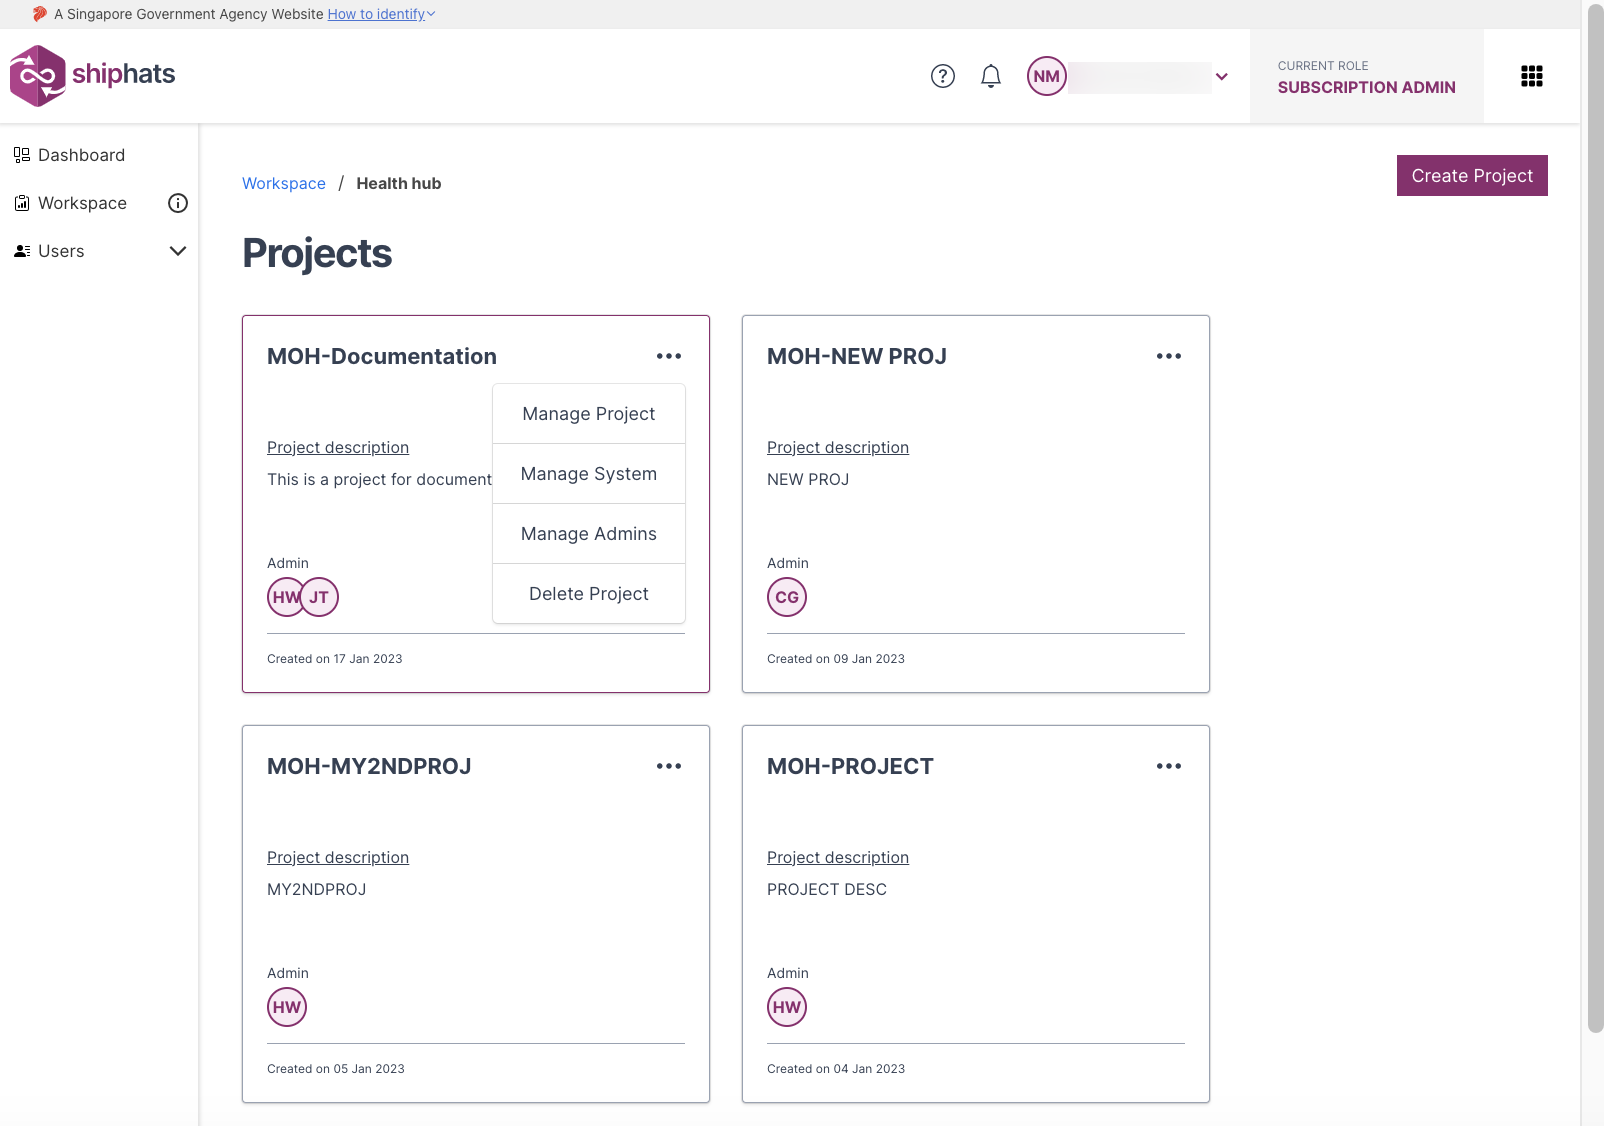
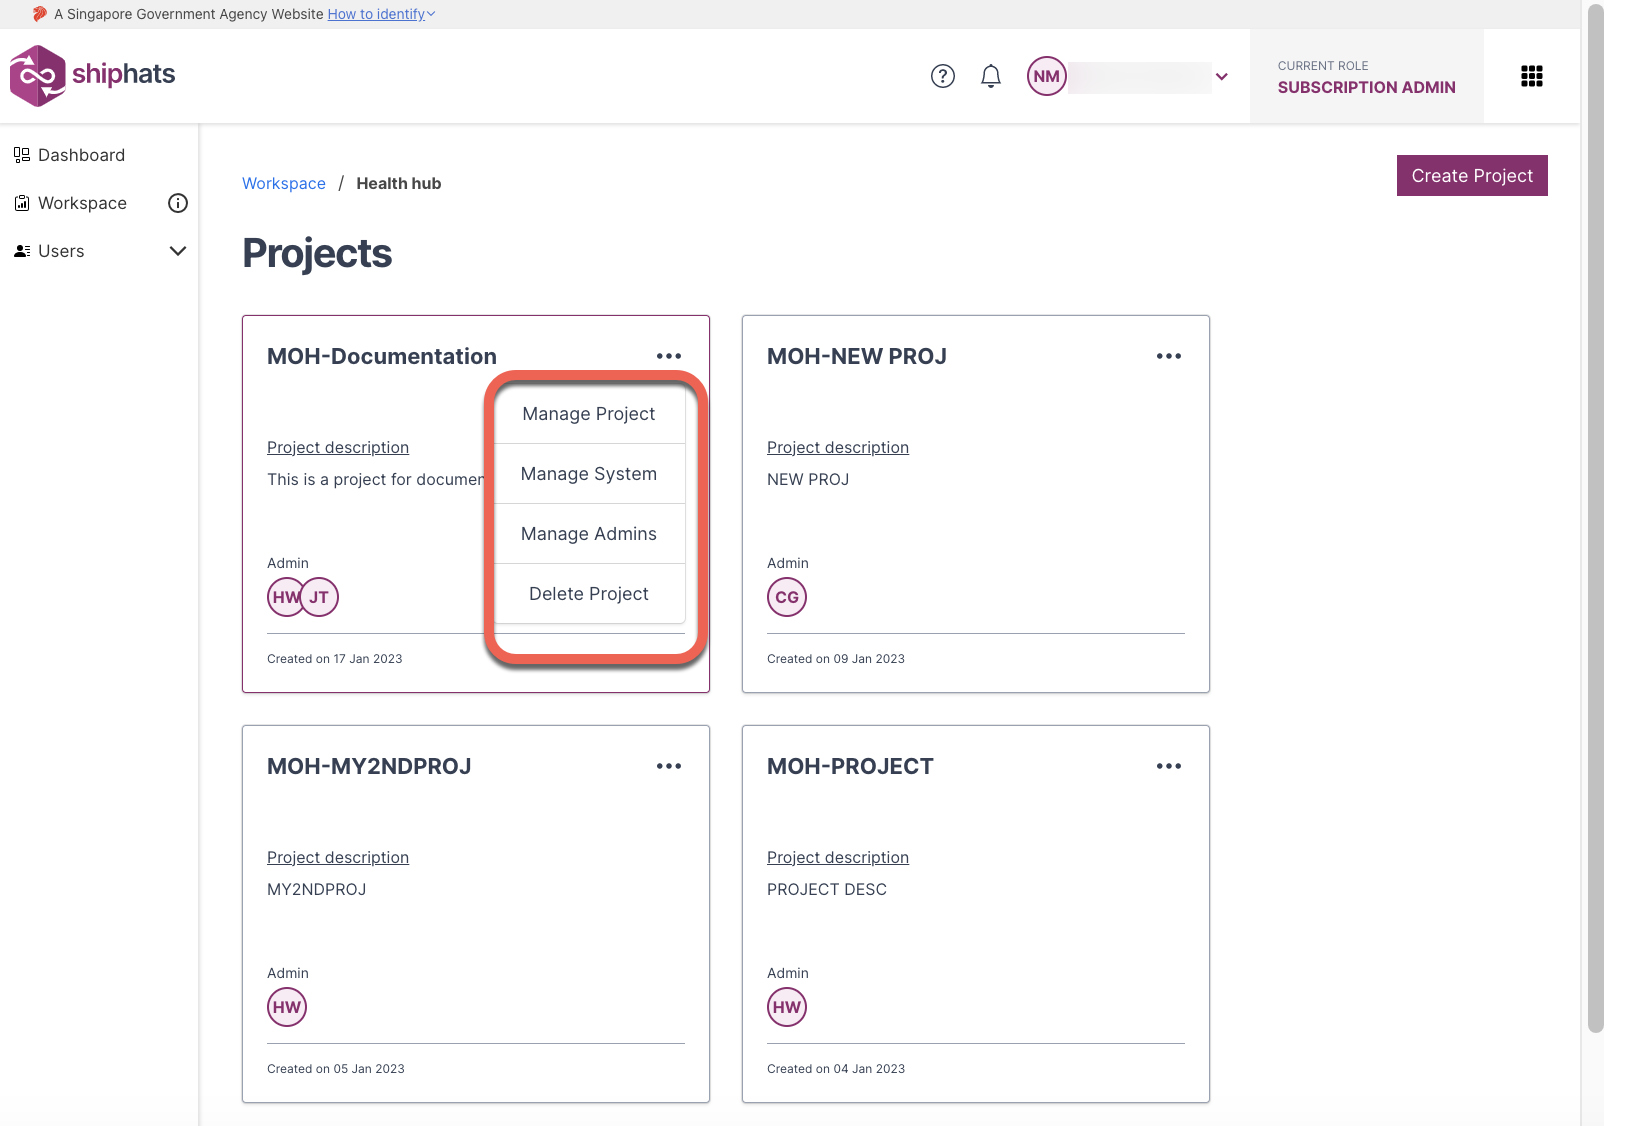
https://jira.ship.gov.sg/browse/CODEX-2185767

diff --git a/index.html b/index.html
@@ -7,7 +7,7 @@
   <meta name="description" content="Description">
   <meta name="viewport" content="width=device-width, initial-scale=1.0, minimum-scale=1.0">
   <!--<link rel="stylesheet" href="//cdn.jsdelivr.net/npm/docsify@4/lib/themes/vue.css">-->
-  <link rel="stylesheet" href="https://docs.developer.tech.gov.sg/static/dist/doc.4b7e5587.css">
+  <link rel="stylesheet" href="https://docs.developer.tech.gov.sg/static/dist/doc.bbce3996.css">
   <link rel="stylesheet" href="https://fonts.googleapis.com/css2?family=Source+Sans+Pro:wght@100;300;400;700;900&display=swap">
   <link rel="stylesheet" href="https://cdnjs.cloudflare.com/ajax/libs/font-awesome/5.13.0/css/fontawesome.min.css">
   <link rel="stylesheet" href="https://cdnjs.cloudflare.com/ajax/libs/font-awesome/5.13.0/css/solid.min.css">

diff --git a/manage-projects.md b/manage-projects.md
@@ -11,20 +11,35 @@ Subscription Admin (SA) can create new projects in SHIP-HATS and manage them. SA
 
 ### To create a new project
 
-1. From the side menu, click **Projects**. 
+1. From the side menu, click **Workspace**.
+    
+    The **Systems** screen appears, displaying all the systems added to your subscription.
+
+    ![view systems](./images/view-systems.png)
+
+1. Select the System to which you want to add a project. 
+
+    The **Projects** screen appears, displaying all the previously added projects. 
+
+    ![all projects](./images/view-projects.png)
+
 1. Click **Create Project**.  
+
+    ![create project](./images/create-new-project.png)
+
 1. Provide information in the following fields:
 
     |Field|Description|
     |---|---|
     |**Project Name**| Specify name of the project. Your agency name is prefixed to the project name automatically. 
     |**Project Description**| Specify details of the project. 
-    |**System**|Select the system from the drop-down list. This is the same system that you added in [TechBiz](https://docs.developer.tech.gov.sg/docs/techbiz-documentation/). You can view your systems in the **Systems** tab. If you want to manage/add System, you must connect to the [TechBiz portal](https://portal.techbiz.suite.gov.sg/).|
     |**Project Admin 1**| Select Project Admin from the drop-down list. Users will appear here only if they were added in the [TechBiz portal](https://portal.techbiz.suite.gov.sg/).<!--If you want to invite new users, click **Invite here**. If *First Name* and *Last Name* were not provided when creating a new user account, email address will appear in the drop-down list.-->
     |**Project Admin 2**| This is an optional field. Select a second Project Admin from the drop-down list. Users will appear here only if they were added in the [TechBiz portal](https://portal.techbiz.suite.gov.sg/).<!--If *First Name* and *Last Name* were not provided when creating a new user account, email address will appear in the drop-down list.--> 
 1. Click **Create Project**.  
     
-    The created project appears in All Projects.
+    A message appears, indicating **Project Created Successfully**. The created project appears on the **Projects** screen.
+
+    ![Projects](./images/projects-all.png)
     
 <!--with **Subscribed Tools** and **Not Subscribed Tools** sections based on your subscription.-->
 
@@ -32,6 +47,11 @@ Subscription Admin (SA) can create new projects in SHIP-HATS and manage them. SA
     
 <!--
 >> **Note:** The number of PAs each project is entitled to is based on the [subscription tier](https://www.developer.tech.gov.sg/products/categories/devops/ship-hats/subscription) quota for which the agency has subscribed.
+-->
+
+<!--
+|**System**|Select the system from the drop-down list. This is the same system that you added in [TechBiz](https://docs.developer.tech.gov.sg/docs/techbiz-documentation/). You can view your systems in the **Systems** tab. If you want to manage/add System, you must connect to the [TechBiz portal](https://portal.techbiz.suite.gov.sg/).|
+
 -->
 
 
@@ -45,12 +65,17 @@ SA and PAs of a subscription account can view all the projects of the subscripti
 
 ### To view a project in a subscription account
 
-1. From the side menu, click **Projects**.
-
-    > **Tip:** If needed, [Switch account](manage-account).
-
-    Tile view of all the projects in this subscription account appears. 
+1. From the side menu, click **Workspace**.
     
+    The **Systems** screen appears, displaying all the systems added to your subscription.
+
+    ![view systems](./images/view-systems.png)
+
+1. Select the System for which you want to view projects. 
+
+    The **Projects** screen appears, displaying all the previously added projects. 
+
+    ![all projects](./images/view-projects.png)
 
 <!--1. Click **Manage** to view tools that are currently added to the project.-->
 
@@ -60,12 +85,29 @@ Subscription Admin can remove a project if no tool has been added to it. If Tool
 
 ### To remove a project
 
-1. From the side menu, click **Projects**.
+1. From the side menu, click **Workspace**.
 
     > **Tip:** If needed, [Switch account](manage-account).
+
+    The **Systems** screen appears, displaying all the systems added to your subscription.
+
+    ![view systems](./images/view-systems.png)
+
+1. Select the System for which you want to remove a project. 
+
+    The **Projects** screen appears, displaying all the previously added projects. 
+
+    ![all projects](./images/projects-all.png)
+
 1. Locate the project that you want to remove, and then click three dots for more options.
+
+    ![more options](./images/projects.png)
+
 1. Select **Delete Project**.   
+
     A **Delete project** pop up appears. 
+
+    ![delete project](./images/delete-project.png)
 
 1. If you are sure that you want to delete the project, click **I acknowledge that I have done all the necessary backup for the project**, and then click **Delete**.
 

diff --git a/manage-tools.md b/manage-tools.md
@@ -15,29 +15,53 @@ SA or PA can add the required project tools as explained below. You can add tool
 
 ### To add project tools
 
-1. From the side menu, click **Projects** to view all the projects in this subscription account.  
-    > **Tip:** If needed, [Switch account](manage-account).
+1. From the side menu, click **Workspace**.
+    
+    The **Systems** screen appears, displaying all the systems added to your subscription.
+
+    ![view systems](./images/view-systems.png)
+
+1. Select the System for which you want to view projects. 
+
+    The **Projects** screen appears, displaying all the previously added projects. 
+
+    ![all projects](./images/projects-all.png)
 
 1. Locate the project to which you want to add a tool, and then click the project.
+
+    **Project Description** screen appears, displaying the **Subscribed Tools** that the SA added in the TechBiz portal. You can also view **Not Subscribed Tools** that 
+
     > **Note:** Alternately, click three dots for more options, and then click **Manage Project**.
+
+    ![Project description](./images/project-description.png)
+
 1. Locate the tool that you want to add, click **Create**, and follow the specific steps in table for the tool that you want to add.
 
-    |Available Tools|Steps|
-    |---|---|
+    |Available Tools|Steps|Image|
+    |---|---|---|
+    |GitLab|Make sure that at least 1 Project Admin has a GitLab account and is added to the TechPass group.<ol><li>In the **GitLab Group Name**, enter the group name.</li><li>From the **System** drop-down, select your system. <!--<br>If you cannot find your system in the drop-down list, follow the steps to [Declare a DGP System](declare-dgp-systems).--></li> <ol> |
     |Confluence|<ol><li>Click **Add**.</li><li>Provide **Project Name**.</li><ol>|
     |Fortify on Demand| <ol><li> Provide value in the **Application Name** and **Release name** fields.<br>**Release name** is an optional field.</li></ol>|    
-    |GitLab|Make sure that at least 1 Project Admin has a GitLab account and is added to the TechPass group.<ol><li>In the **GitLab Group Name**, enter the group name.</li><li>From the **System** drop-down, select your system. <br>If you cannot find your system in the drop-down list, follow the steps to [Declare a DGP System](declare-dgp-systems).</li> <ol> |
     |Jira|<ol><li>Click **Add**.</li><li>Provide **Project Name**.</li><ol>|
     |Nexus IQ|<ol><li>Click **Add**.</li><li> Enter values in the **Application Name** and **Application ID** fields.</li><ol>|
     |Nexus Repo|<ol><li>Click **Add**.</li><li>Submit a [service request](https://jira.ship.gov.sg/servicedesk/customer/portal/11/) to add this tool.</li><ol>|
-    |pCloudy|<ol><li>Click **Add**.</li><ol>|
+    |pCloudy|<ol><li>Click **Add**.<br>The **Add New pCloudy Application** popup appears, displaying the allowed number of parallel shared mobile device tests.</li><ol>|
     |Prisma Cloud|<ol><li>Click **Add**.</li><li>In the **App name** field, enter the required value. </li><ol>|
     |SonarQube|Make sure that you have logged in to [SonarQube Community Edition](https://sonar.hats.stack.gov.sg/sonar) or [SonarQube Developer Edition](https://sonar1.hats.stack.gov.sg/sonar) at least once.<ol><li>Click **Add**.</li><li>In the **Application Type** and **App Name** fields, enter the required values.</li><ol>|
 
     >**Note:** After you reach the quota, the respective tool name(s) will be disabled in the **Select Tool** drop-down list. If you still want to add these tools, send an email to [enquiries_ENP@tech.gov.sg](enquiries_ENP@tech.gov.sg).    
+
+    The following image shows an example to add GitLab. 
+
+    ![Add tool](./images/tool-add-new.png 'size:40%')
+
 1. Click **Add**.   
     
     The selected project tool and application is added.
+
+    The following image shows an example where GitLab has been added. 
+    
+    ![Added tool](./images/tool-added-new.png)
 
 
 ## Add project tool with customised project key
@@ -80,9 +104,9 @@ Subscription Admin (SA) and Project Admin (PA) can customise the project keys wh
 
 As a Subscription Admin or a Project Admin, you can **remove a tool or an app** when it is not required. You can remove the following tools: 
 
+- GitLab
 - Confluence
 - Fortify on Demand
-- GitLab
 - Jira
 - Nexus IQ
 - SonarQube
@@ -91,7 +115,8 @@ As a Subscription Admin or a Project Admin, you can **remove a tool or an app** 
 ### To remove a project tool
 
 
-1. From the side menu, click **Projects** to view all the projects in this subscription account.  
+1. From the side menu, click **Projects** to view all the projects in this subscription account. 
+
     > **Tip:** If needed, [Switch account](manage-account).
 
 1. Identify your project, and then click the project.

diff --git a/manage-admins.md b/manage-admins.md
@@ -15,16 +15,35 @@ Subscription Admins can add Project Admins using the SHIP-HATS portal. When crea
 
 ### To add a project admin
 
-1. From the side menu, click **Projects** to view all the projects in this subscription account. 
+
+1. From the side menu, click **Workspace**.
 
     > **Tip:** If needed, [Switch account](manage-account).
 
-1. Locate the project, and then click three dots for more options.
-1. Click **Manage Admins**. 
-1. Click **Add New**.  
+    The **Systems** screen appears, displaying all the systems added to your subscription.
+
+    ![view systems](./images/view-systems.png)
+
+1. Select the System for which you want to remove a project. 
+
+    The **Projects** screen appears, displaying all the previously added projects. 
+
+    ![all projects](./images/projects-all.png)
+
+1. Locate the project for which you want to add a Project Admin, and then click three dots for more options.
+
+    ![more options](./images/projects.png)
+
+1. Click **Manage Admins** > **Add New**.  
+
+    ![manage admins](./images/project-admins.png)
+
 1. In the **Select Admin** drop down list, select the required user.
 
     >**Note:** Users will appear here only if they were added in the [TechBiz portal](https://portal.techbiz.suite.gov.sg/). <!--If *First Name* and *Last Name* were not provided when creating a new user account, email address will appear in the drop-down list.-->
+
+    ![select admins](./images/project-admins-add.png)
+
 1. Click **Add** to add this user as a project admin.  
    
    After a user is successfully added, an email notification will be sent to the requesting SA with copy sent to other SA and the newly added PA.
@@ -35,8 +54,14 @@ Subscription Admins can add Project Admins using the SHIP-HATS portal. When crea
 
 1. Log in to [SHIP-HATS Portal](http://portal.ship.gov.sg).
 1. Click **Users** > **All users**.
+
+    ![All users](./images/users-all.png)
+
 1. Click **Project Role**.  
-   Name of users will appear based on the project role.
+
+   Name of users will appear sorted based on the project role.
+
+    ![Project role](./images/project-admins-view.png)
 
 ## Change subscription admin
 
